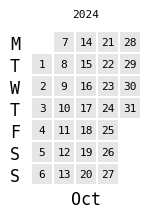
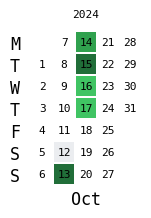
changes to app.py

diff --git a/app.py b/app.py
@@ -2,9 +2,10 @@ from flask import Flask, render_template, request, redirect, url_for
 import json
 import os
 from datetime import datetime, timedelta
-
+from calendar import monthrange
+import numpy as np
+import matplotlib.colors as mcolors
 import pytz  # Import pytz for timezone handling
-
 import matplotlib
 matplotlib.use('Agg')  # Set the backend before importing pyplot
 import matplotlib.pyplot as plt
@@ -18,7 +19,7 @@ app = Flask(__name__)
 
 DATA_FILE = 'tasks.json'
 
-# Define US Eastern Time Zone
+# Define US Eastern Time Zone, change if needed
 eastern = pytz.timezone('US/Eastern')
 
 def load_data():
@@ -81,18 +82,19 @@ def today_tasks():
     if request.method == 'POST':
         completed_tasks = request.form.getlist('completed')
         for task in data[today]['tasks']:
+            # Toggle task completion based on whether it's in the completed_tasks list
             if task['description'] in completed_tasks:
                 task['completed'] = True
+            else:
+                task['completed'] = False  # Set to False if it's not checked
         save_data(data)
         return redirect(url_for('home'))
     else:
         tasks = data[today]['tasks']
         return render_template('today_tasks.html', tasks=tasks)
 
+
 def generate_heatmap():
-    from calendar import monthrange
-    import numpy as np
-    import matplotlib.colors as mcolors
 
     data = load_data()
     dates = []
@@ -133,7 +135,7 @@ def generate_heatmap():
     completion_rates = list(completion_dict.values())
 
     # Create a custom colormap
-    cmap = plt.get_cmap('YlGn')
+    cmap = plt.get_cmap('BuPu')
     cmap_colors = cmap(np.arange(cmap.N))
 
     # Set the first color (representing zero completion) to light grey
@@ -148,10 +150,11 @@ def generate_heatmap():
     plt.figure(figsize=(8, 2))
     ax = plt.gca()
 
+    norm = norm = mcolors.PowerNorm(gamma=0.5)
     july.heatmap(
         dates,
         completion_rates,
-        cmap=new_cmap,
+        cmap="github",
         colorbar=False,
         date_label=True,
         month_grid=False,
@@ -187,7 +190,7 @@ def add_excuse():
             save_data(data)
 
         # Display the message after submitting the excuse
-        message = "Thank you for sharing. Every day can't be perfect, do your best tomorrow!"
+        message = "Thank you for sharing. This excuse will not be saved because your future self probably does not care."
         return render_template('message.html', message=message)
     else:
         return render_template('add_excuse.html')
